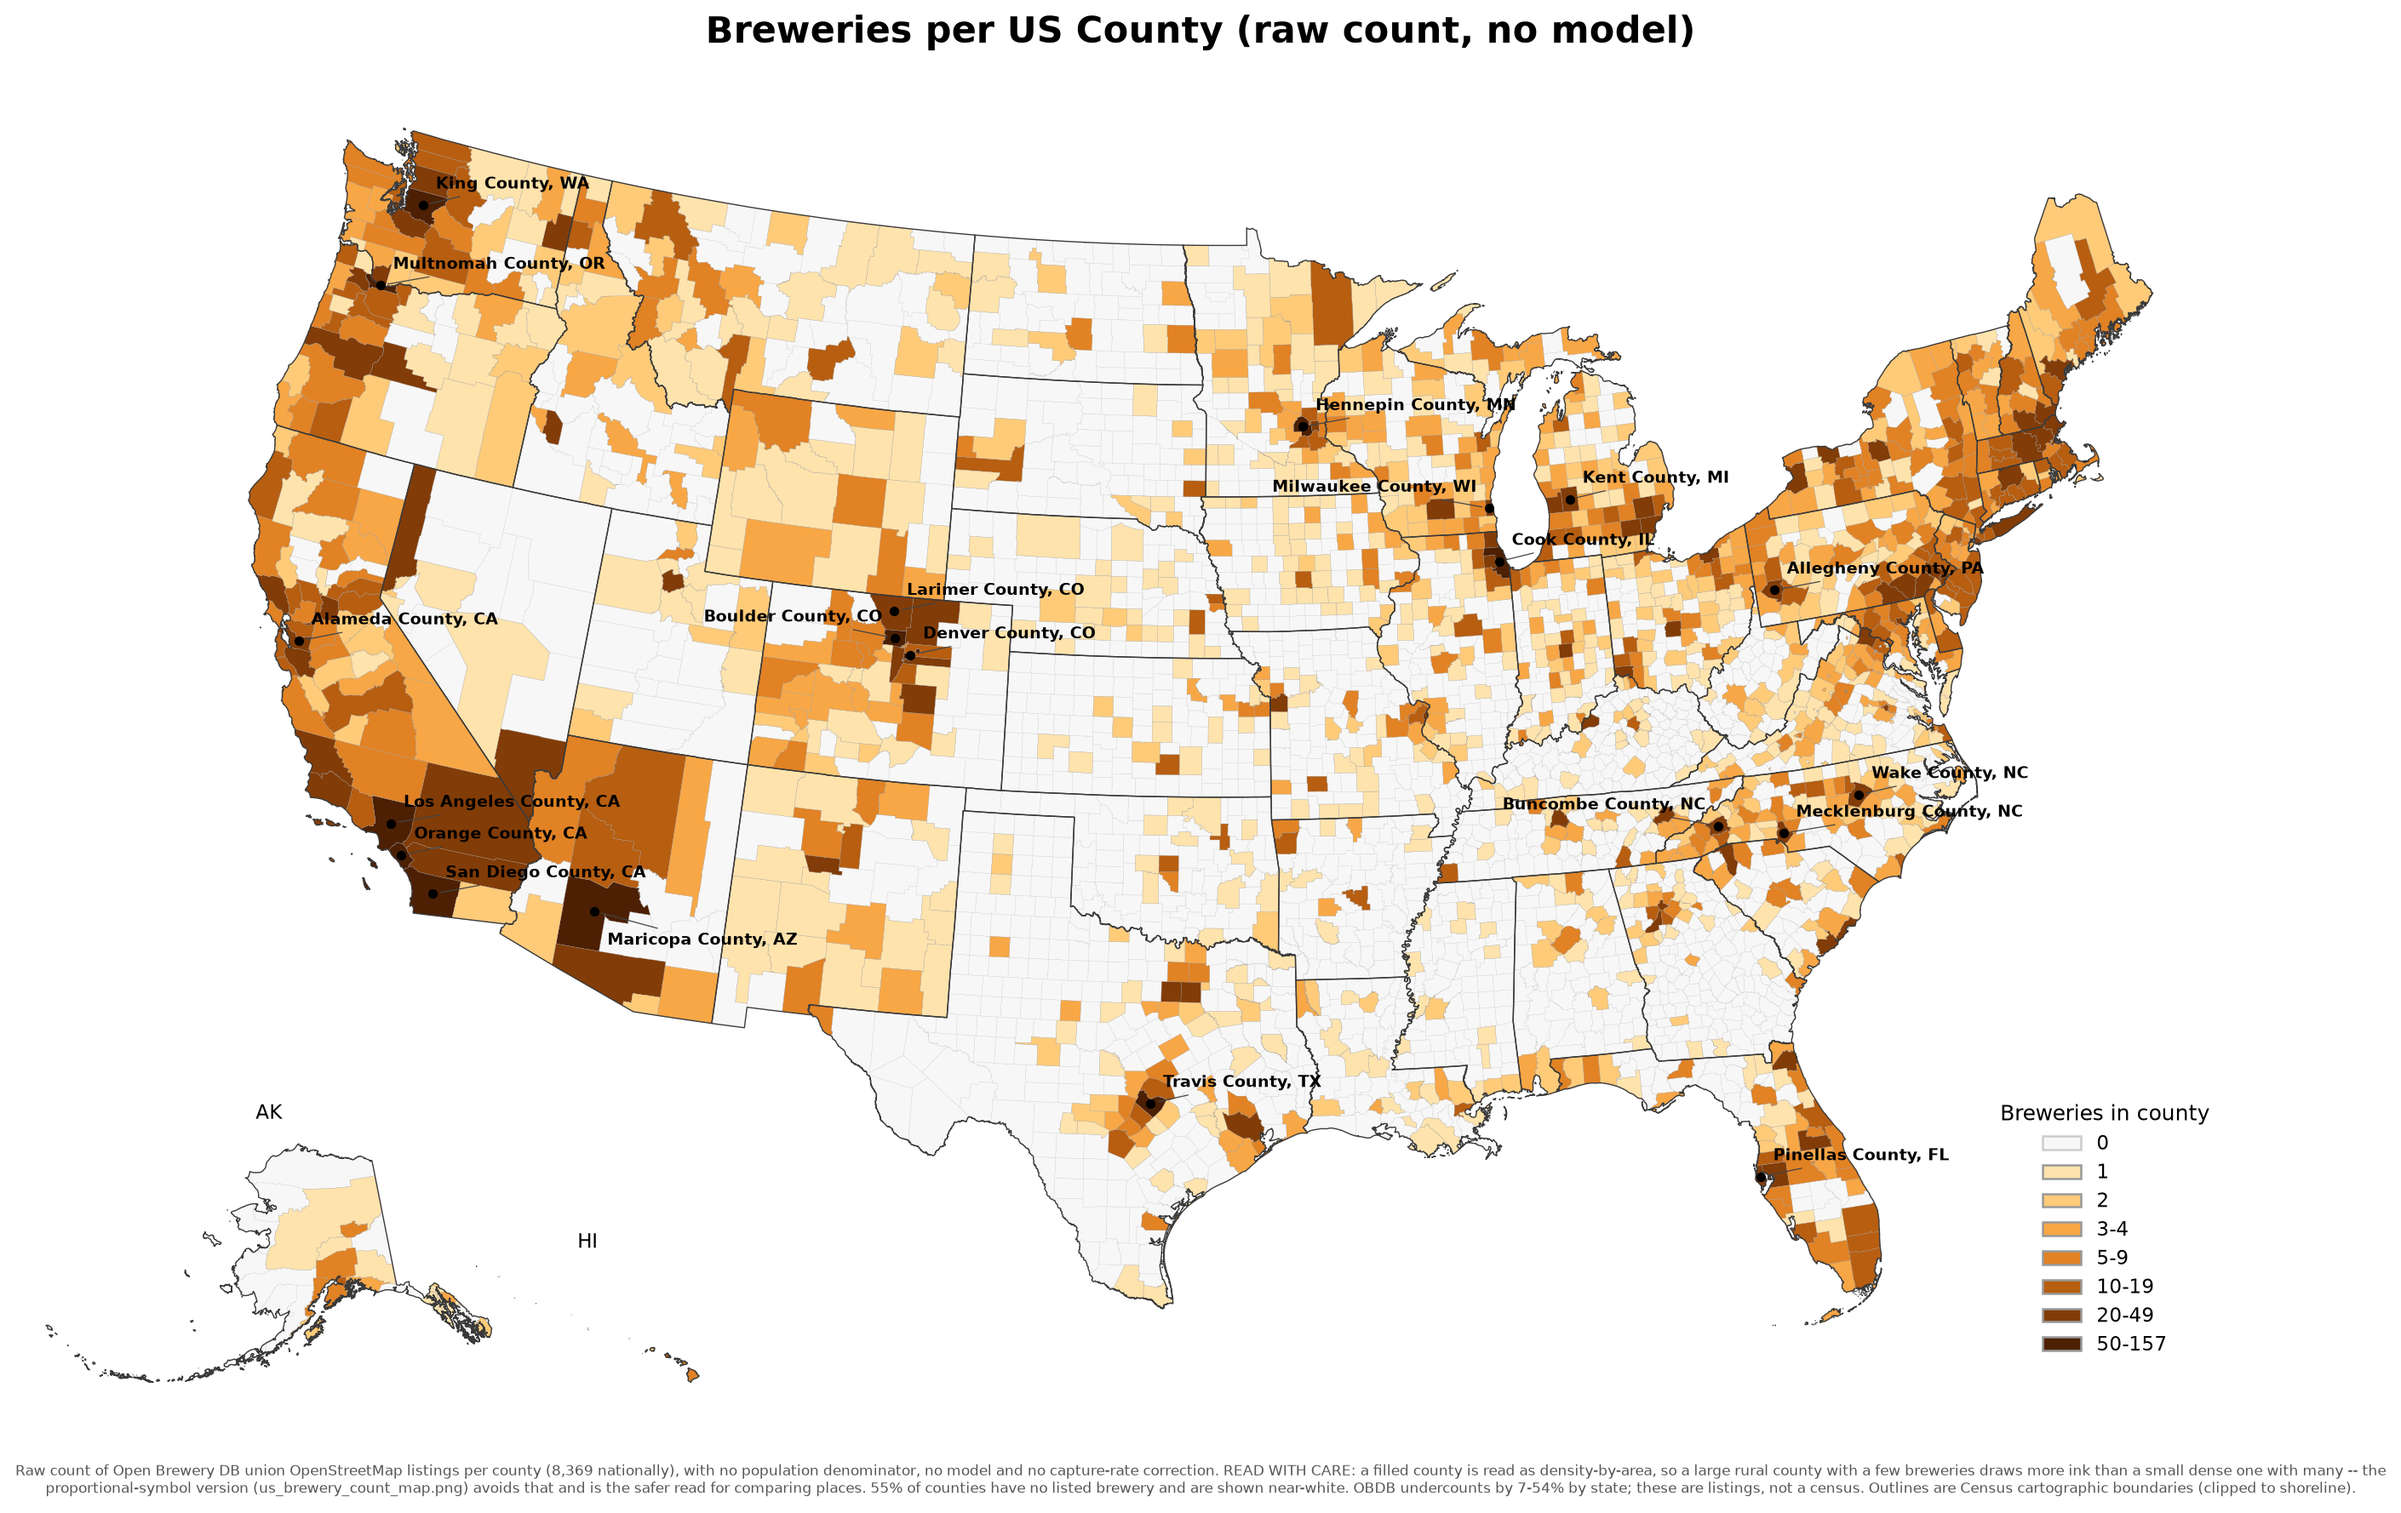
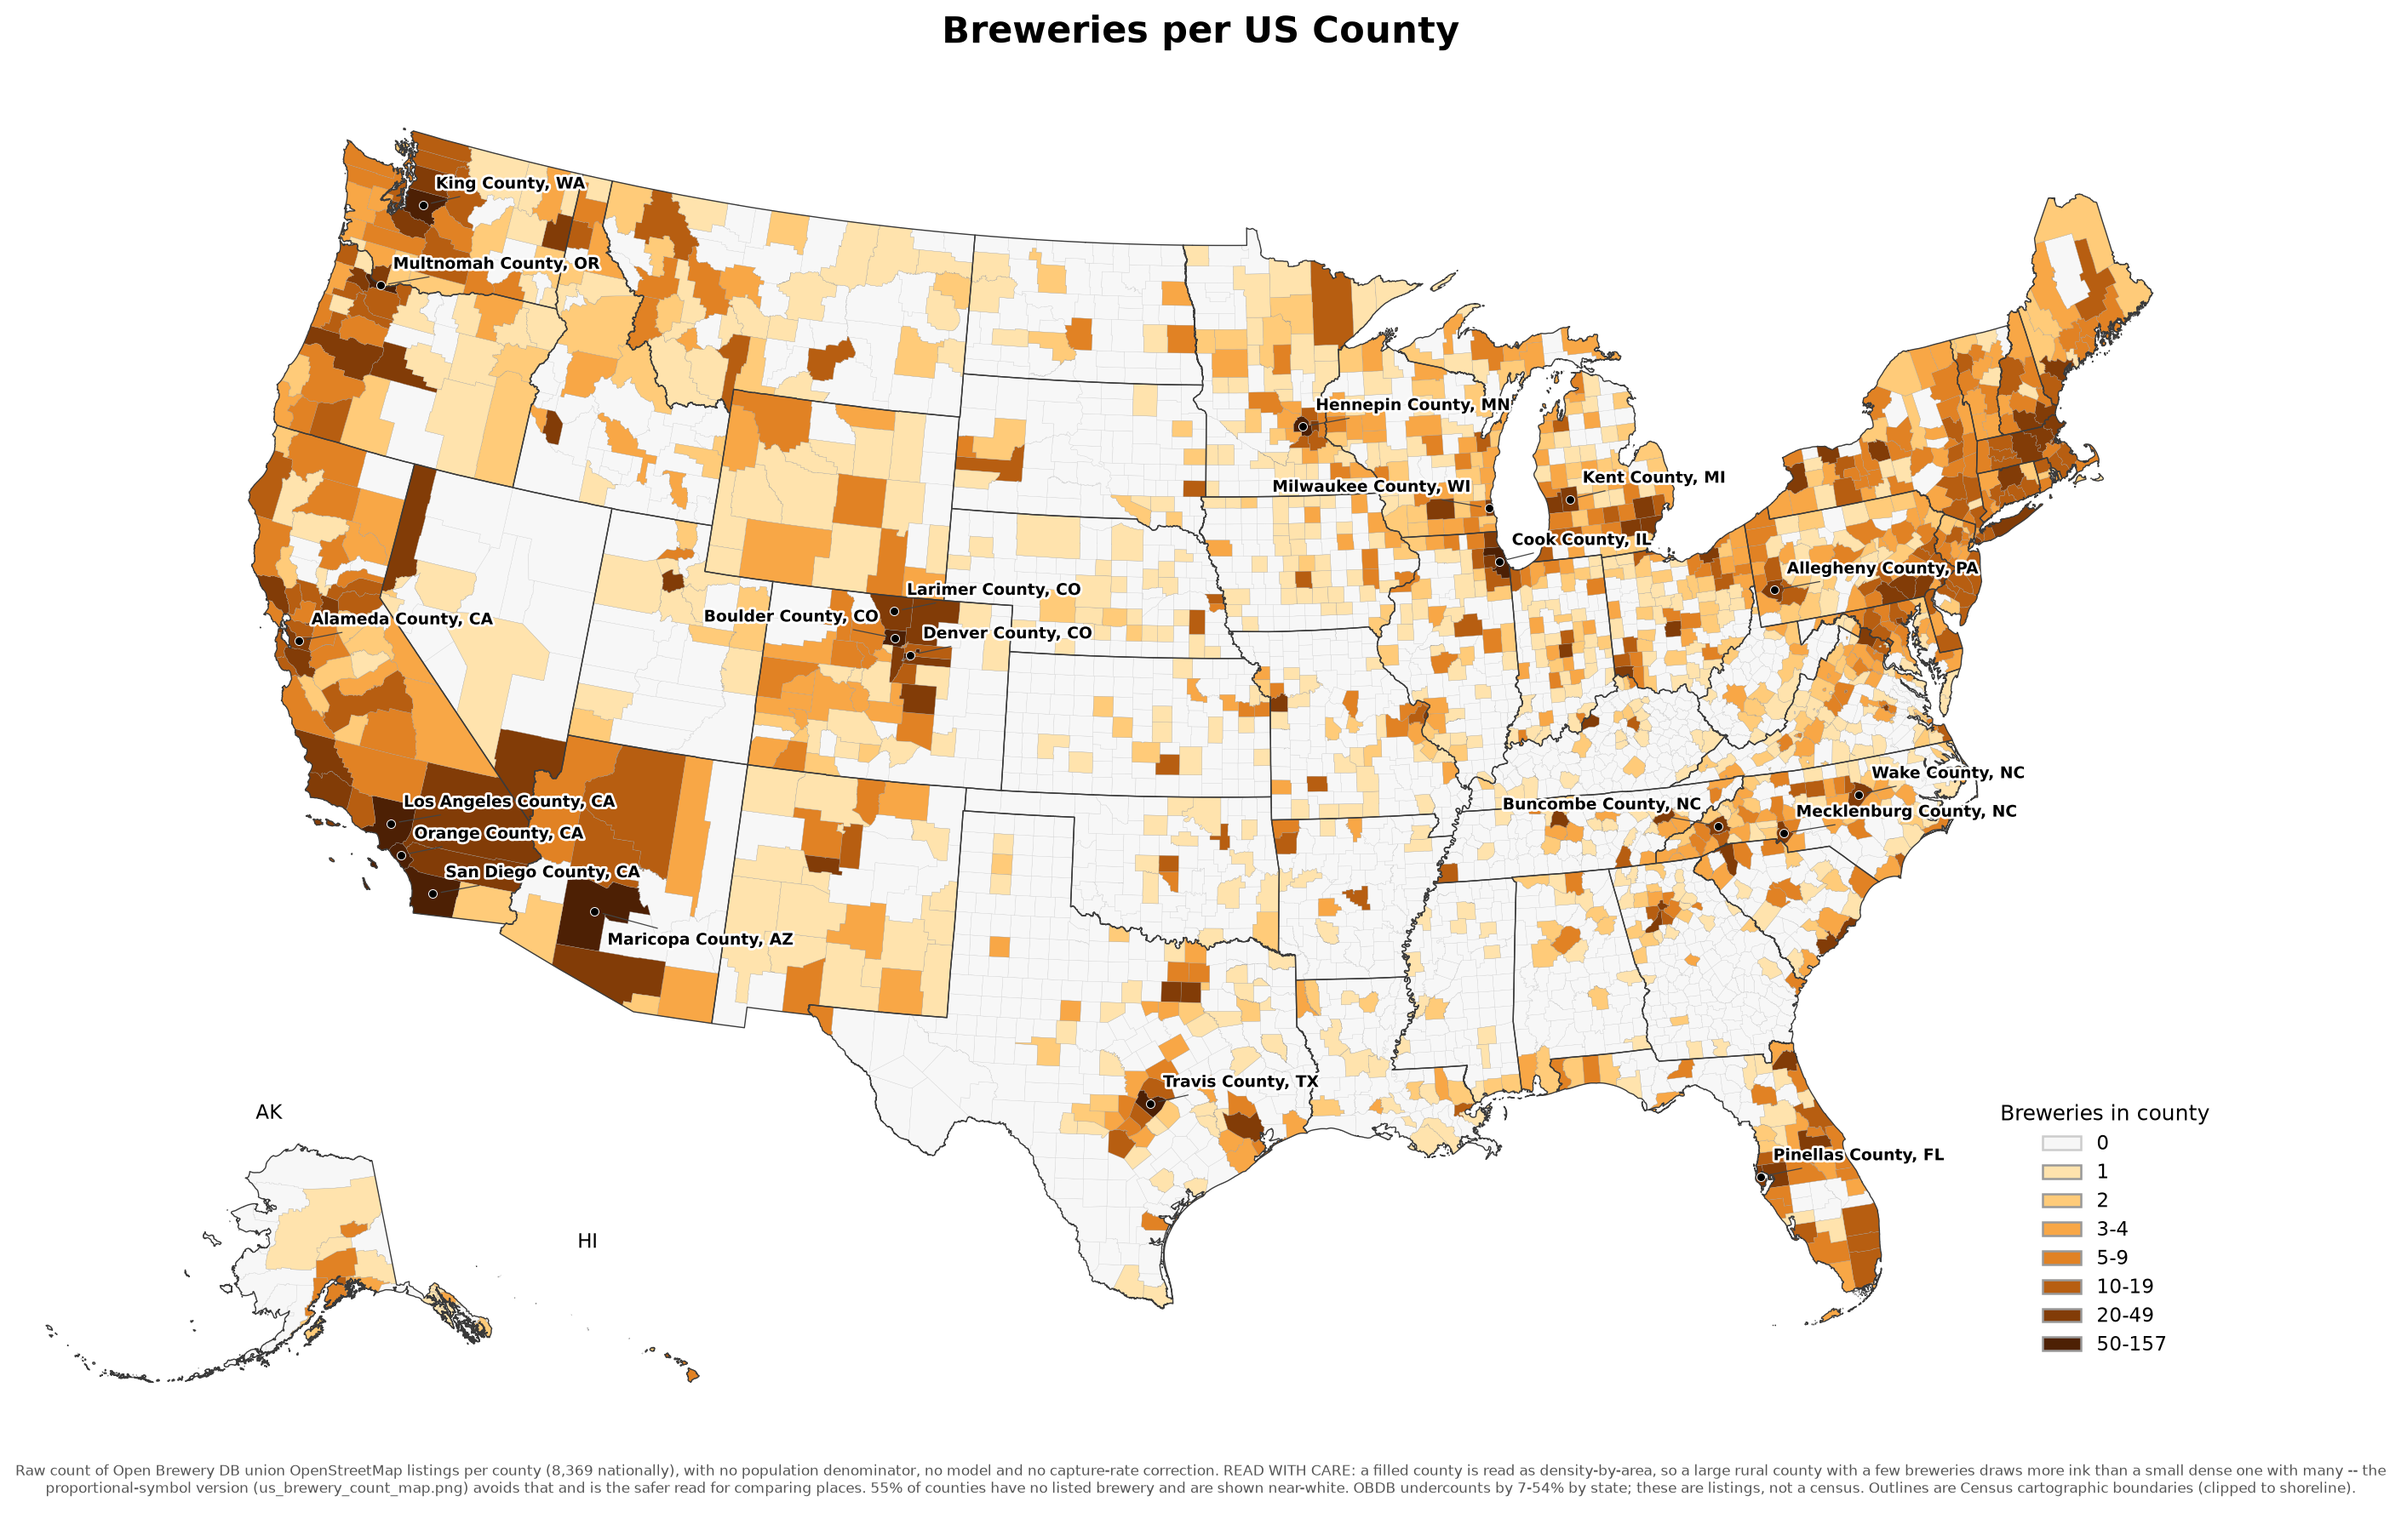
Halo label text for legibility on dark fills; drop jargon from map titles
LEGIBILITY. Bold black labels sat directly on whatever the choropleth painted
underneath, and the darkest two classes of the count map (20-49, 50-157) are
dark enough that county names on them were genuinely hard to read.

map_labels.place_labels now draws a white stroke behind the glyphs. A halo is
the standard cartographic answer and is preferable to switching text colour by
underlying value, which would require sampling the fill per label and would
leave a map carrying two different label styles.

Applies to every labelled map in the project, not just the count one.

The marker dot got a thin version of the same treatment, at 0.4pt on a 4.0pt
dot. The first attempt used 0.6pt on a 3.5pt dot, where the white ring ate most
of the black and the markers read as hollow circles.

TITLES. Removed "(raw count, no model)" / "(raw, no model)" / "(raw observed
count, no model)". That phrasing meant something to whoever wrote it and
nothing to a general reader, who has no reason to know the project has a
modelled alternative to contrast against. Titles now say what the map shows:
"Breweries per US County" and "Breweries per 100,000 Adults 21+, by US County".
The methodology is unchanged and still stated in each caption, which is where a
reader who wants it will look.

Claude-Session: https://claude.ai/code/session_017WYRnRq2rW3fXXNdcjCk9y

diff --git a/src/breweries/map_labels.py b/src/breweries/map_labels.py
@@ -12,7 +12,16 @@ from __future__ import annotations
 
 from dataclasses import dataclass
 
+import matplotlib.patheffects as path_effects
 import matplotlib.pyplot as plt
+
+# Halo drawn behind label text so it stays legible over dark choropleth fills.
+# 2.2pt is enough to separate the glyphs from the darkest bins without the
+# labels reading as stickers. The marker dot gets a thin version of the same
+# treatment -- thin deliberately: at 0.6pt on a 3.5pt dot the white ring ate
+# most of the black and the markers read as hollow circles.
+HALO_COLOR = "white"
+HALO_WIDTH = 2.2
 
 # Offsets tried in priority order: near, readable positions first, then
 # farther/less-preferred ones. (dx, dy) in points, plus text alignment.
@@ -53,7 +62,7 @@ def place_labels(
     candidates: list[LabelCandidate],
     max_labels: int = 20,
     fontsize: float = 7.5,
-    marker_size: float = 3.5,
+    marker_size: float = 4.0,
     reserved_boxes: list | None = None,
 ) -> int:
     """Place up to max_labels candidates, highest-priority first, skipping any
@@ -81,7 +90,8 @@ def place_labels(
         accepted_marker = None
         for dx, dy, ha, va in _OFFSET_CANDIDATES:
             marker = ax.plot(cand.x, cand.y, marker="o", markersize=marker_size,
-                              color="black", zorder=5, linestyle="none")[0]
+                              color="black", zorder=5, linestyle="none",
+                              markeredgecolor=HALO_COLOR, markeredgewidth=0.4)[0]
             # Leader line from the dot to the text. The offsets here are small
             # (<=18pt), but a long label's TEXT still extends far from its own
             # dot -- "Hampshire County, MA" is ~150px wide at this size, which
@@ -98,6 +108,15 @@ def place_labels(
                              "shrinkA": 0.0, "shrinkB": float(marker_size),
                              "connectionstyle": "arc3,rad=0.0"},
             )
+            # White halo behind the glyphs. These labels sit on whatever the
+            # choropleth put underneath them, and the darkest bins are dark
+            # enough that bold black on top is genuinely hard to read -- the
+            # top two classes of the count map in particular. A stroke is the
+            # standard cartographic answer and is preferable to switching the
+            # text colour by underlying value, which needs the fill sampled per
+            # label and produces a map with two different label styles on it.
+            text.set_path_effects([
+                path_effects.withStroke(linewidth=HALO_WIDTH, foreground=HALO_COLOR)])
             fig.canvas.draw()
             bbox = text.get_window_extent(renderer=renderer)
 

diff --git a/scripts/build_choropleth.py b/scripts/build_choropleth.py
@@ -556,7 +556,11 @@ def build_count_map(gdf: gpd.GeoDataFrame, out_path: str) -> None:
     ax = fig.add_axes((0.02, 0.08, 0.96, 0.86))
     ax.set_facecolor(PAGE_COLOR)
     draw(ax, conus)
-    ax.set_title("Breweries per US County (raw observed count, no model)",
+    # Titles say what the map SHOWS, not how it was built. "(raw count, no
+    # model)" meant something to whoever wrote it and nothing to a general
+    # reader, who has no reason to know the project has a modelled alternative.
+    # The methodology belongs in the caption, where it already is.
+    ax.set_title("Breweries per US County",
                   fontsize=17, fontweight="bold", pad=12)
 
     ax_ak = fig.add_axes((0.02, 0.05, 0.20, 0.22))
@@ -658,7 +662,11 @@ def build_count_choropleth(gdf: gpd.GeoDataFrame, out_path: str) -> None:
     ax = fig.add_axes((0.02, 0.08, 0.96, 0.86))
     ax.set_facecolor(PAGE_COLOR)
     draw(ax, conus)
-    ax.set_title("Breweries per US County (raw count, no model)",
+    # Titles say what the map SHOWS, not how it was built. "(raw count, no
+    # model)" meant something to whoever wrote it and nothing to a general
+    # reader, who has no reason to know the project has a modelled alternative.
+    # The methodology belongs in the caption, where it already is.
+    ax.set_title("Breweries per US County",
                   fontsize=17, fontweight="bold", pad=12)
 
     ax_ak = fig.add_axes((0.02, 0.05, 0.20, 0.22))
@@ -782,7 +790,7 @@ def build_rate_choropleth(gdf: gpd.GeoDataFrame, out_path: str) -> None:
     ax = fig.add_axes((0.02, 0.08, 0.96, 0.86))
     ax.set_facecolor(PAGE_COLOR)
     draw(ax, conus)
-    ax.set_title("Breweries per 100,000 Adults 21+, by US County (raw, no model)",
+    ax.set_title("Breweries per 100,000 Adults 21+, by US County",
                   fontsize=17, fontweight="bold", pad=12)
 
     ax_ak = fig.add_axes((0.02, 0.05, 0.20, 0.22))
